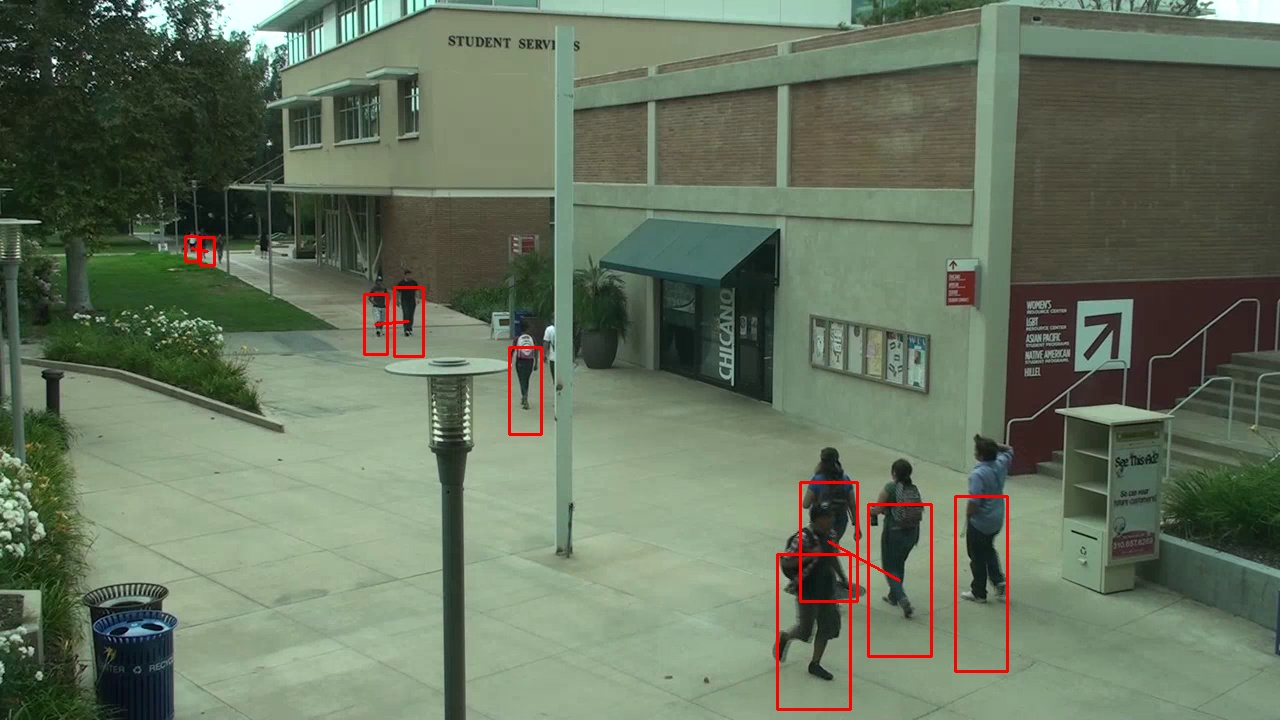
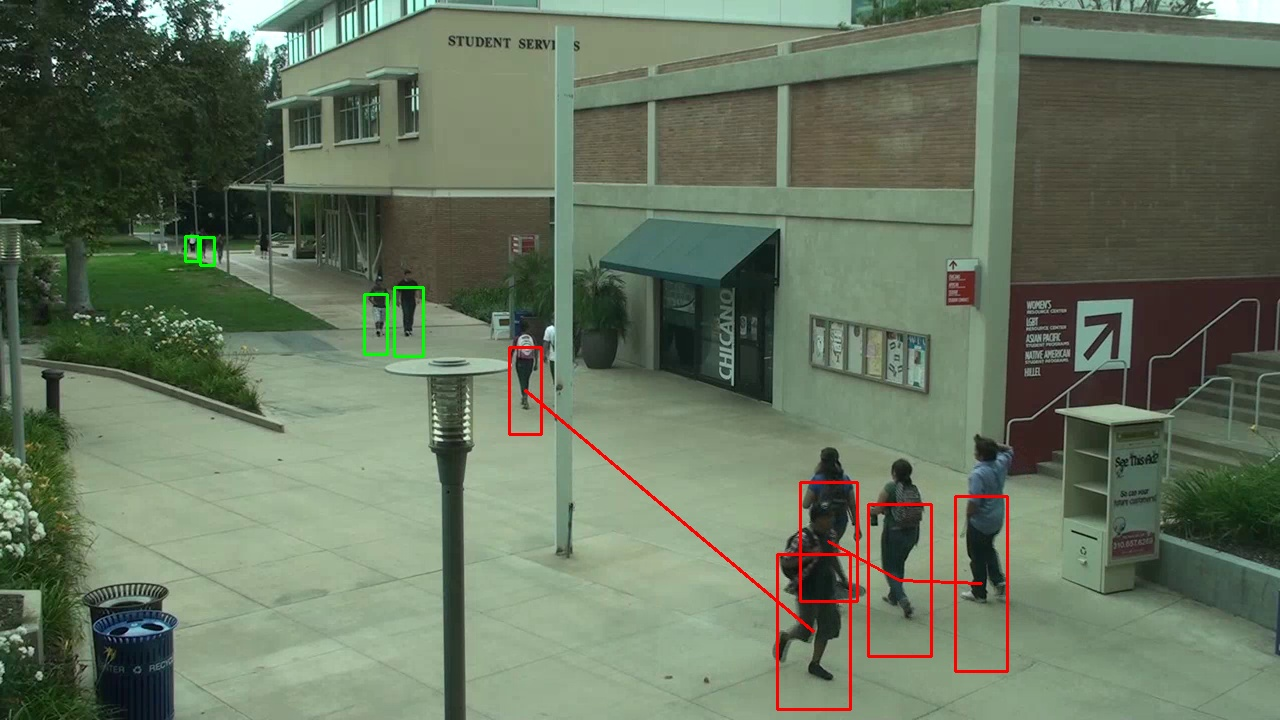
Fixed inconsistent bounding box formatting

diff --git a/sd_detect.py b/sd_detect.py
@@ -59,12 +59,9 @@ def YOLOv3(img):
 def process_yolov3_output(outputs, input_shape):
     """
     From the output of the model, select detections for humans, and which confidence 
-    score greater than 0.5
-    The output is in the format [x1, y1, x2, y2]
-    * x1 is the person's bounding box's left
-    * y1 is the person's bounding box's top 
-    * x2 is the person's bounding box's right
-    * y2 is the person's bounding box's bottom 
+    score greater than 0.5.
+    
+    The output is in the same format as that of detect_people().
 
     Ref: https://opencv-tutorial.readthedocs.io/en/latest/yolo/yolo.html
     """    
@@ -100,18 +97,16 @@ def process_yolov3_output(outputs, input_shape):
     for i in indices:
         x,y,w,h = boxes[i]
         left, top, right, bottom = x, y, x + w, y + h
-        boxes_filtered.append([left, top, right, bottom])
+        boxes_filtered.append([bottom, right, top, left])
 
     return boxes_filtered
 
 
 def HOG(img, win_stride: Tuple[int], padding: Tuple[int], scale: int):
     """
-    Returns bounding boxes around humans that the HOG detectors detect
-    * x1 is the person's bounding box's left
-    * y1 is the person's bounding box's top 
-    * x2 is the person's bounding box's right
-    * y2 is the person's bounding box's bottom 
+    Returns bounding boxes around humans that the HOG detectors detect.
+
+    The output is in the same format as that of detect_people().
     """
     hog = cv2.HOGDescriptor()
     # hog = cv2.HOGDescriptor(img.shape, (8, 8), (4, 4), (8, 8), 9, 1, -1, 0, 0.2, 1, 64, True)
@@ -125,11 +120,11 @@ def HOG(img, win_stride: Tuple[int], padding: Tuple[int], scale: int):
     # pick = non_max_suppression(rects, probs=None, overlapThresh=0.1)
     results = []
     for i, (x, y, w, h) in enumerate(rects): 
-        x1 = int(x / scale)
-        y1 = int(y / scale)
-        x2 = int((x + w) / scale)
-        y2 = int((y + h) / scale)
-        results.append([x1, y1, x2, y2])
+        left = int(x / scale)
+        top = int(y / scale)
+        right = int((x + w) / scale)
+        bottom = int((y + h) / scale)
+        results.append([bottom, right, top, left])
 
     return results, list(weights.flatten())
 

diff --git a/sd_io.py b/sd_io.py
@@ -135,20 +135,19 @@ def drawBoxesAndLines(image, people):
     like the output of sd_measure.measure_locations().
     """
     for d in people:
-        topLeft = (d['bbox'][2], d['bbox'][3])
-        bottomRight = (d['bbox'][0], d['bbox'][1])
+        topLeft = (d['bbox'][3], d['bbox'][2])
+        bottomRight = (d['bbox'][1], d['bbox'][0])
         center = tuple(coord // 2 for coord in tuple(map(operator.add, topLeft, bottomRight)))
-
-        if d['too_close']:
-            # Draw a red box around the person if they're too close to other people.
-            image = cv2.rectangle(image, topLeft, bottomRight, (0, 0, 255), 2)
+        # Draw bbox around person
+        if len(d['too_close']) == 0:
+            color = (0, 255, 0)
         else:
-            # Draw a green box around the person if they're not close to anybody.
-            image = cv2.rectangle(image, topLeft, bottomRight, (0, 255, 0), 2)
+            color = (0, 0, 255)
+        image = cv2.rectangle(image, topLeft, bottomRight, color, 2)
 
         for idx in d['too_close']:
             coordsOfOtherPerson = people[idx]['bbox']
-            centerOfOtherPerson = ((coordsOfOtherPerson[2] + coordsOfOtherPerson[0]) // 2,
-                                   (coordsOfOtherPerson[3] + coordsOfOtherPerson[1]) // 2)
+            centerOfOtherPerson = ((coordsOfOtherPerson[1] + coordsOfOtherPerson[3]) // 2,
+                                   (coordsOfOtherPerson[0] + coordsOfOtherPerson[2]) // 2)
             image = cv2.line(image, center, centerOfOtherPerson, (0, 0, 255), 2)
     return image

diff --git a/sd_main.py b/sd_main.py
@@ -71,21 +71,19 @@ def handleImageFlow(imagePath, outputPath, detectMethod):
 
 def main():
     path = sys.argv[1]
-    outputPath = sys.argv[2]
+    output_path = sys.argv[2]
     if len(sys.argv) <= 3:
         detect_method = 'yolov3'
     else:
         detect_method = sys.argv[3]
 
     if path_is_video(path):
-        # Input is a video
-        handleVideoFlow(path, outputPath, detect_method)
+        handleVideoFlow(path, output_path, detect_method)
     else:
-        # Input is static image
-        handleImageFlow(path, outputPath, detect_method)
+        handleImageFlow(path, output_path, detect_method)
 
 
-# Usage: "python sd_main.py <path to input image> <path to output> [<detection method>]"
+# Usage: "python sd_main.py <path to input> <path to output> [<detection method>]"
 # <detection method> is 'yolov3' if not specified
 if __name__ == "__main__":
     main()
